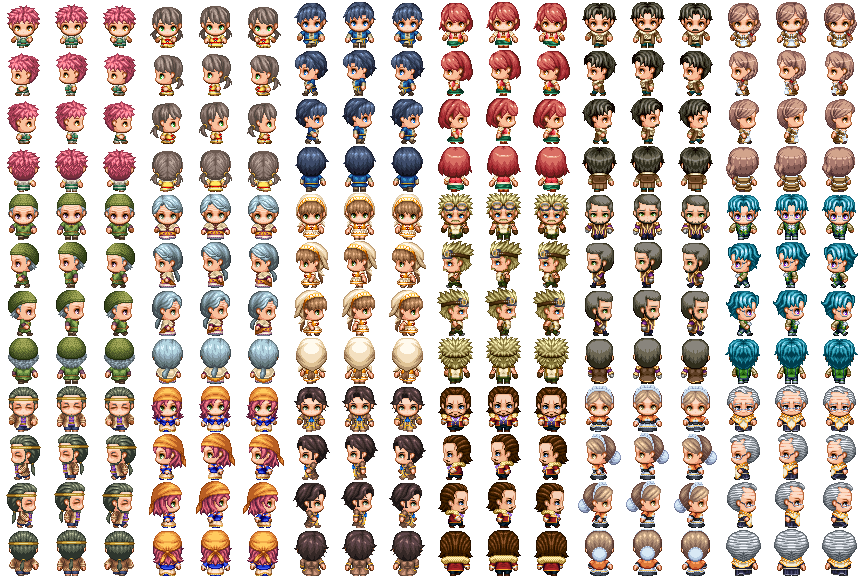
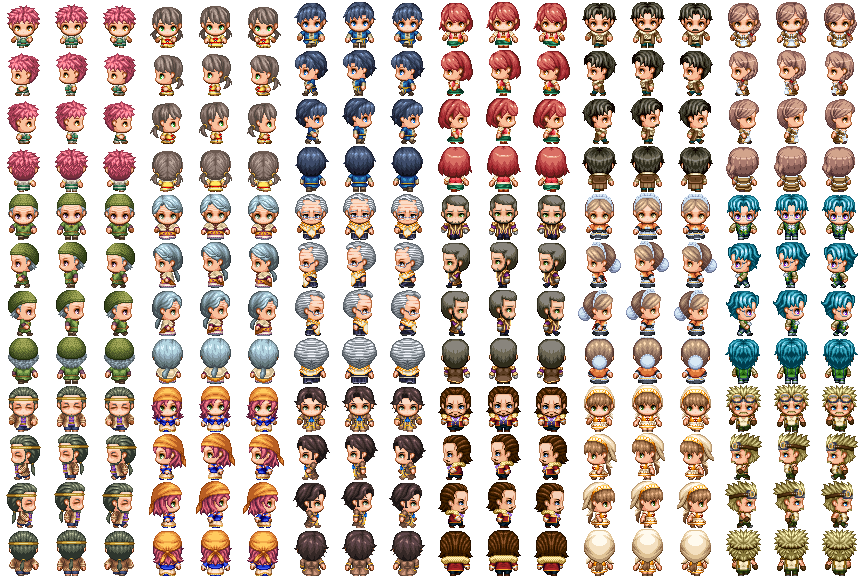
Give the merchants their own faces, and centre their card
The shop card was pinned to the top left corner. `.screen` is a bare flex
column, so a single panel inside one sits at cross-start unless the screen
says otherwise - #pauseScreen and #resultScreen said so, #shopScreen and
#savesScreen did not. Both are centred now, with `margin-block: auto`
rather than `justify-content: center`, because a centred flex item taller
than its scroll container puts its own top out of reach.

The portrait on the card was drawn in code. It is now the merchant's real
face, cut from People2's face sheet into a new `vendor_faces` atlas, with
the code-drawn portrait still there as the fallback when the atlas has not
decoded.

All three merchants now come off People2, whose portraits are index-matched
to its characters - so the face on the card is the person standing at the
stall. Marta and the Coinweigher moved to People2/3 and People2/6, which
meant taking both OUT of the crowd: they were townsfolk until now, and a
market containing a second copy of someone you can talk to is worse than
one fewer shopper. Two replacements were cast to keep the crowd at fifteen.

ui-smoke now asserts every single-panel screen is centred, so a fifth one
cannot be added and forgotten the way these two were. Verified it fails
when the rule is removed.

Changed region(s): [[0.3438, 0.3125, 1.0, 1.0]]

diff --git a/src/art/rtp.js b/src/art/rtp.js
@@ -40,7 +40,7 @@ const LOAD_TIMEOUT = 6000;       // matches sheets.js: art must never hang boot
 
 const ATLASES = [
   'ground', 'props', 'signs', 'banners', 'items', 'balloons',
-  'folk', 'actors', 'actor_faces',
+  'folk', 'actors', 'actor_faces', 'vendor_faces',
 ];
 const img = new Map();
 
@@ -252,16 +252,16 @@ export const RTP_FOLK = [
   'young woman, cream frock',
   'old man in a green cap',
   'old woman',
-  'serving girl with a headband',
-  'tinker with goggles',
+  'old man in white and gold',
   'grey-haired man in a brown coat',
+  'white-haired woman in an apron',
   'man in a plaid waistcoat',
   'farmer in a straw hat',
   'woman in an orange headscarf',
   'woman in a brown work coat',
   'oswin — bearded, sleeves rolled up',
-  'marta — white-haired, in an apron',
-  'coinweigher — an old man in gold',
+  'marta — headband and apron',
+  'coinweigher — goggles pushed up',
 ];
 
 export const RTP_FOLK_COUNT = RTP_FOLK.length;
@@ -322,6 +322,34 @@ function cutBlock(src, bx, by, cw, ch, scale) {
     });
   });
   return out;
+}
+
+// ---------------------------------------------------------------------------
+// The merchants' faces
+// ---------------------------------------------------------------------------
+// `vendor_faces.png` is three 144px cells cut from People2's face sheet, in
+// vendor order. It is a separate atlas from `actor_faces` because it is a
+// different sheet, and separate from `folk` because a portrait is not a walk
+// cycle — but the indices below are deliberately the SAME order as the walking
+// merchants in `folk`, since People2's portraits are index-matched to its
+// characters. The face on the shop card is the person standing at the stall.
+const VENDOR_FACE = { oswin: 0, marta: 1, coinweigher: 2 };
+const VENDOR_FACE_COUNT = 3;
+
+export const hasRtpVendorFaces = () => img.has('vendor_faces');
+
+/**
+ * A merchant's portrait, square, at `size` pixels. Null until the atlas has
+ * decoded — callers fall back to the code-drawn portrait, which is why a
+ * blocked file costs the shop card its photograph and nothing else.
+ */
+export function rtpVendorFace(id, size = 144) {
+  const src = img.get('vendor_faces');
+  const i = VENDOR_FACE[id];
+  if (!src || i === undefined) return null;
+  return sprite(`rtp:vendorface:${id}:${size}`, () => cut(
+    src, i * FACE, 0, FACE, FACE, size, size,
+  ));
 }
 
 // ---------------------------------------------------------------------------

diff --git a/src/ui/ui.js b/src/ui/ui.js
@@ -23,6 +23,7 @@ import { mostRecent, slotSummaries, clearSlot } from '../core/saves.js';
 import * as backup from '../core/backup.js';
 import { VENDORS, goodById, buy, purchaseBlocked, FLASKS, FLASK_IDS, flaskCount } from '../game/shop.js';
 import { vendorPortrait } from '../art/market.js';
+import { rtpVendorFace } from '../art/rtp.js';
 import { goodIcon } from '../art/items.js';
 import { M, vendorReact, playerReact } from '../game/market.js';
 
@@ -927,7 +928,14 @@ export function openShop(vendor) {
   if (!vendor) return;
   openVendor = vendor;
   const def = VENDORS[vendor.id];
-  el.shopFace.src = spriteUrl(`vendorface:${vendor.id}`, () => vendorPortrait(vendor.id, 6));
+  // The merchant's own portrait if the atlas decoded, the code-drawn one if
+  // not. The cache key carries which of the two it is, so the fallback drawn
+  // during a slow first load cannot be handed out again once the real face has
+  // arrived.
+  const face = rtpVendorFace(vendor.id, 192);
+  el.shopFace.src = face
+    ? spriteUrl(`vendorface:rtp:${vendor.id}`, () => face)
+    : spriteUrl(`vendorface:drawn:${vendor.id}`, () => vendorPortrait(vendor.id, 6));
   el.shopName.textContent = def.name;
   el.shopTrade.textContent = def.trade;
   el.shopLine.textContent = def.greeting[Math.min(def.greeting.length - 1, S.marketVisits - 1)] || def.greeting[0];

diff --git a/css/style.css b/css/style.css
@@ -624,6 +624,15 @@ kbd {
 
 /* --------------------------------------------------------------- panels */
 #pauseScreen, #resultScreen { align-items: center; justify-content: center; }
+
+/* The vendor and saves screens are single panels like the two above, and were
+   pinned to the top left by nothing more than `.screen` being a bare flex
+   column. They get `margin-block: auto` rather than `justify-content: center`
+   because these two can outgrow a phone in landscape, and a centred flex item
+   taller than its own scroll container puts its top out of reach - auto
+   margins collapse to zero instead. */
+#shopScreen, #savesScreen { align-items: center; }
+#shopScreen > .panel, #savesScreen > .panel { margin-block: auto; }
 .panel {
   width: min(460px, 92vw);
   padding: 26px;

diff --git a/tools/assets/build-rtp-art.py b/tools/assets/build-rtp-art.py
@@ -155,9 +155,9 @@ CROWD = [
     ("People1", 5, "young woman, cream frock"),
     ("People1", 6, "old man in a green cap"),
     ("People1", 7, "old woman"),
-    ("People2", 3, "serving girl with a headband"),
-    ("People2", 6, "tinker with goggles"),
+    ("People2", 0, "old man in white and gold"),
     ("People3", 4, "grey-haired man in a brown coat"),
+    ("People4", 1, "white-haired woman in an apron"),
     ("People4", 0, "man in a plaid waistcoat"),
     ("People4", 4, "farmer in a straw hat"),
     ("People4", 5, "woman in an orange headscarf"),
@@ -166,9 +166,15 @@ CROWD = [
 # The three traders, after the crowd so the crowd's indices stay 0..14.
 MERCHANTS = [
     ("People2", 4, "oswin - bearded, sleeves rolled up"),
-    ("People4", 1, "marta - white-haired, in an apron"),
-    ("People2", 0, "coinweigher - an old man in gold"),
+    ("People2", 3, "marta - headband and apron"),
+    ("People2", 6, "coinweigher - goggles pushed up"),
 ]
+
+# The three of them come off ONE sheet now, which is what makes the faces
+# below possible: People2's portraits are index-matched to its characters, so
+# the merchant you talk to is the merchant standing at the stall. People2/3 and
+# People2/6 were townsfolk until this change and had to leave CROWD above -
+# the market must not contain a second copy of a person you can talk to.
 
 BLOCK_W, BLOCK_H = 3 * T, 4 * T
 folk_cells = []
@@ -184,6 +190,27 @@ save(sheet(folk_cells, 6, BLOCK_W, BLOCK_H), "folk.png")
 # the owner's own drawings and go through src/art/sheets.js instead.
 save(load("characters/Actor2.png"), "actors.png")
 save(load("faces/Actor2.png"), "actor_faces.png")
+
+# --- the merchants' faces -------------------------------------------------
+# People2's face sheet, in the stock 4x2 grid of 144px cells. Only the three
+# the shop card shows are cut, in vendor order, so this atlas is 3 cells wide
+# and `src/art/rtp.js` indexes it the same way it indexes everything else.
+#
+# Faces are NOT toned. Every other slice in this file is pulled towards brazier
+# light because it sits in the world; a portrait sits on a dark UI panel, where
+# dimming it only makes it muddy.
+FACE = 144
+VENDOR_FACES = [
+    ("oswin",       4),   # bottom left  - bearded, sleeves rolled up
+    ("marta",       3),   # top right    - headband and apron
+    ("coinweigher", 6),   # bottom, 3rd  - goggles pushed up
+]
+fsrc = load("faces/People2.png")
+cells = []
+for _who, idx in VENDOR_FACES:
+    c, r = idx % 4, idx // 4
+    cells.append(fsrc.crop((c * FACE, r * FACE, c * FACE + FACE, r * FACE + FACE)))
+save(sheet(cells, len(cells), FACE, FACE), "vendor_faces.png")
 
 # --- balloons -------------------------------------------------------------
 # Ten expressions, eight frames each. The empty first frame is kept: it is the
